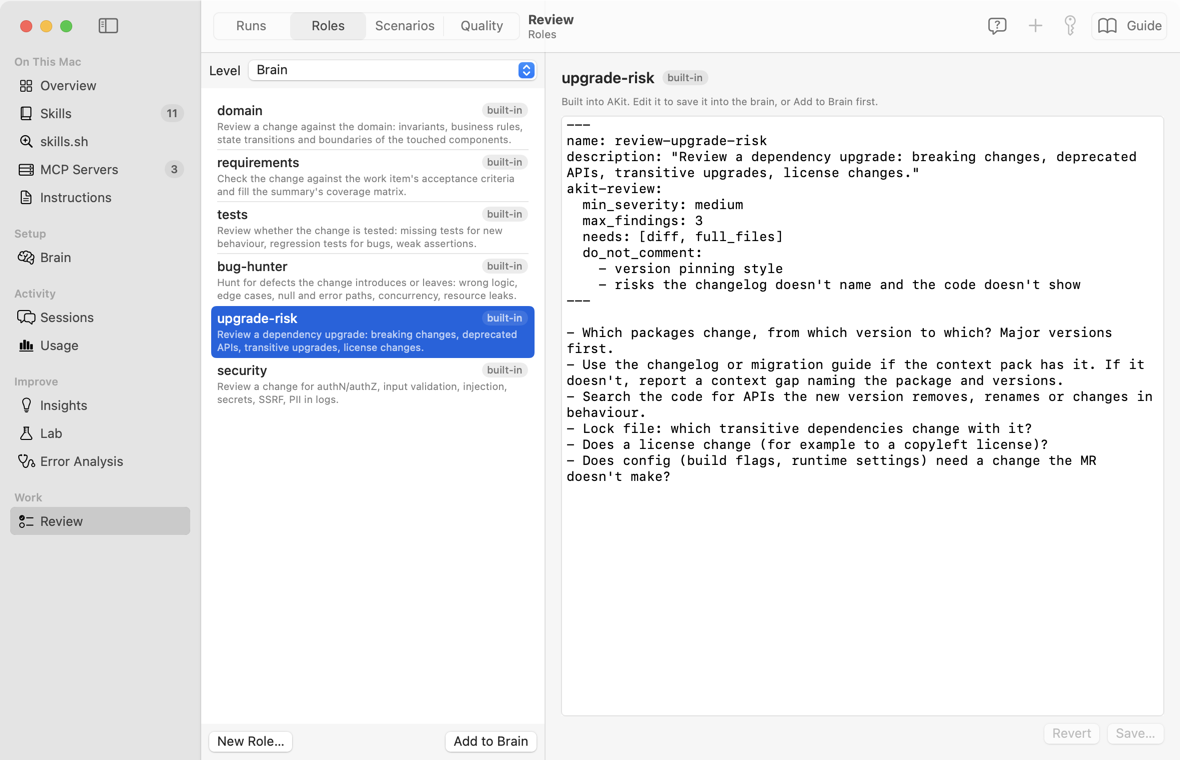
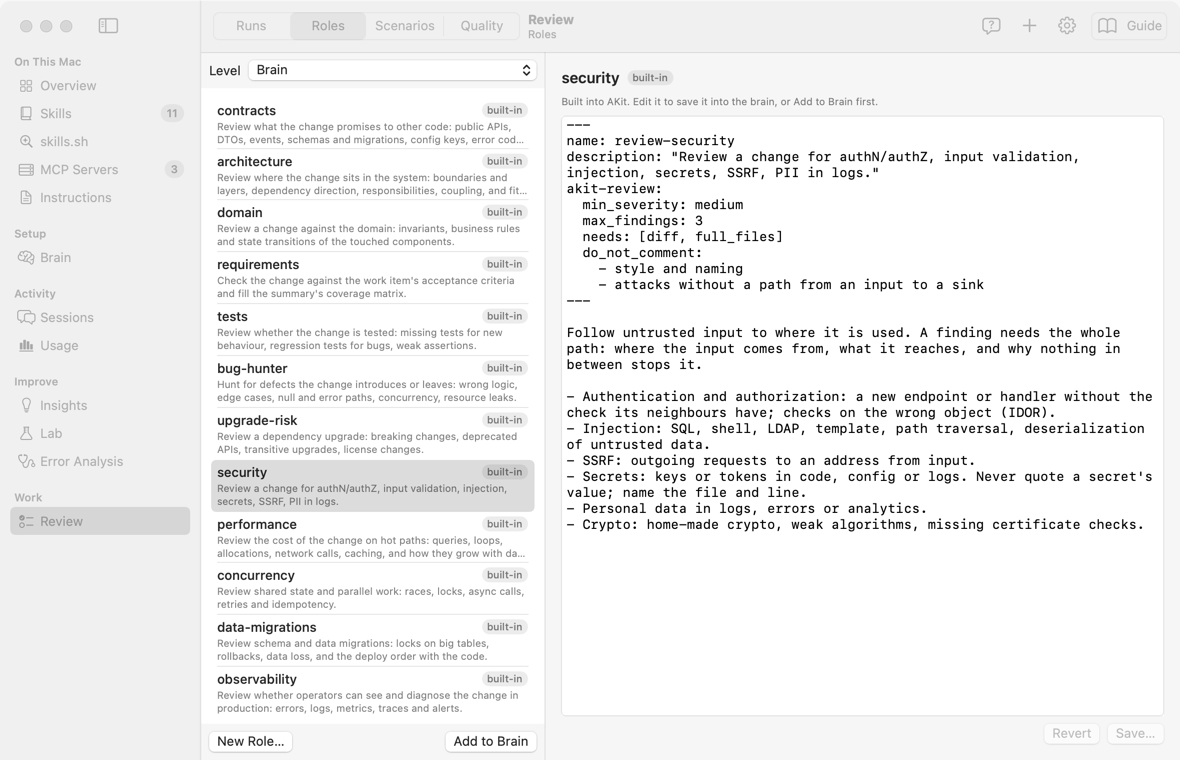
Add performance, concurrency, data-migrations and observability roles
Four optional built-in roles, each with its checklist and what not to
comment on. Feature makes architecture optional (a pass per role costs
credits; turn it on for a design question); Bugfix and Dependency upgrade
offer the new roles where they fit.

diff --git a/AKitCore/Sources/AKitReview/ReviewBuiltIns.swift b/AKitCore/Sources/AKitReview/ReviewBuiltIns.swift
@@ -26,7 +26,9 @@ public enum ReviewBuiltIns {
         "feature": """
         id: feature
         title: Feature
-        roles: { required: [contracts, architecture, domain, bug-hunter, requirements], optional: [tests, security] }
+        roles:
+          required: [contracts, domain, bug-hunter, requirements]
+          optional: [architecture, tests, security, performance, concurrency, data-migrations, observability]
         checks:
           - "Which contracts does the change add or change, and does every consumer still work?"
           - "Does the new code sit in the right component and keep its boundaries?"
@@ -41,7 +43,9 @@ public enum ReviewBuiltIns {
         "bugfix": """
         id: bugfix
         title: Bugfix
-        roles: { required: [bug-hunter, contracts, requirements, tests], optional: [architecture, security] }
+        roles:
+          required: [bug-hunter, contracts, requirements, tests]
+          optional: [architecture, security, concurrency, performance, observability]
         checks:
           - "Is the cause fixed, not the symptom (from the repro steps)?"
           - "Does the fix change a contract (behaviour, error, format) that other code relies on?"
@@ -55,7 +59,7 @@ public enum ReviewBuiltIns {
         "dependency-upgrade": """
         id: dependency-upgrade
         title: Dependency upgrade
-        roles: { required: [upgrade-risk, tests], optional: [contracts, security] }
+        roles: { required: [upgrade-risk, tests], optional: [contracts, security, performance] }
         checks:
           - "Which breaking changes does the new version list, and does the code handle them?"
           - "Which transitive dependencies change with it?"
@@ -171,10 +175,63 @@ public enum ReviewBuiltIns {
                          - Personal data in logs, errors or analytics.
                          - Crypto: home-made crypto, weak algorithms, missing certificate checks.
                          """),
+        "performance": role("performance", "Review the cost of the change on hot paths: queries, loops, allocations, network calls, caching, and how they grow with data.",
+                            max: 3, needs: ["diff", "full_files", "history"],
+                            doNotComment: ["micro-optimisations without a measured or obvious hot path", "style and naming",
+                                           "code that runs once at start-up or in tests"], body: """
+                            Find where the change makes something slower or heavier in a way users or operators will notice. For each finding name the path, how often it runs, and how its cost grows (with rows, items, users, payload size).
+
+                            - Database: a query inside a loop (N+1), a query without the index its filter or sort needs, a full-table read or count, a new query on every request that could be read once.
+                            - Network and I/O: a call per item instead of a batch, a synchronous call on a request path or the main thread, a missing timeout, a large payload read fully into memory.
+                            - Algorithms: a nested loop over two collections that grow, repeated sorting or parsing, a linear search in a hot loop.
+                            - Memory: unbounded caches, lists or buffers; loading a whole file, table or response when a stream would do.
+                            - Caching: a cache without an expiry or a bound, a cache key that misses on every call, invalidation that serves stale data.
+
+                            Evidence is the line that runs per item or per request. If you can't tell how often a path runs or how big the data is, ask with `kind: "question"`.
+                            """),
+        "concurrency": role("concurrency", "Review shared state and parallel work: races, locks, async calls, retries and idempotency.",
+                            max: 3, needs: ["diff", "full_files"],
+                            doNotComment: ["style and naming", "races without two concrete callers or tasks that can overlap"], body: """
+                            Find what goes wrong when two things happen at once. For each finding name the two actors (threads, tasks, requests, instances, consumers) and the order of steps that breaks.
+
+                            - Shared mutable state without a lock, an actor or a transaction; check-then-act and read-modify-write on a shared value or row.
+                            - Locks: taken in different orders (deadlock), held across a slow call or an `await`, never released on an error path.
+                            - Async: a call not awaited, a task that outlives its owner, cancellation that leaves state half-changed, work on the wrong thread or queue.
+                            - Distributed: two instances running the same job, a message handled twice, an event out of order. Is the handler idempotent?
+                            - Retries: a retry of a call that isn't idempotent (double charge, double send), retries without backoff or a limit.
+
+                            Quote the line where the shared state is read or written.
+                            """),
+        "data-migrations": role("data-migrations", "Review schema and data migrations: locks on big tables, rollbacks, data loss, and the deploy order with the code.",
+                                max: 3, needs: ["diff", "full_files", "history"],
+                                doNotComment: ["migration file naming and formatting", "changes with no migration, schema or stored data in them"], body: """
+                                Review every change to a schema or to stored data (SQL and ORM migrations, schema files, data backfills, changes to serialized formats in a store or a queue).
+
+                                - Locks and duration: an `ALTER` that rewrites or locks a big table, an index built without the online or concurrent option, a backfill in one transaction.
+                                - Data loss: a dropped or renamed column or table still read by running code, a type change that truncates, a `NOT NULL` without a default on existing rows.
+                                - Rollback: can the migration go back? Does the down step lose data? Is a one-way step marked as one?
+                                - Deploy order: old code running against the new schema, and new code against the old schema, during the rollout. A column the old code writes must stay until no old code runs.
+                                - Data meaning: a backfill that guesses values, defaults that change what old rows mean, time zones and units.
+
+                                Name the table and the step. If the size of a table matters and you can't know it, ask with `kind: "question"`.
+                                """),
+        "observability": role("observability", "Review whether operators can see and diagnose the change in production: errors, logs, metrics, traces and alerts.",
+                              max: 2, needs: ["diff", "full_files"],
+                              doNotComment: ["advice to add logging without a failure that would stay invisible", "log wording and levels as taste",
+                                             "secrets and personal data in logs (the security role owns them)"], body: """
+                              Ask: when this change fails in production, will anyone know, and can they tell why? A finding names the failure and what an operator would see (nothing, a wrong number, a log without the cause).
+
+                              - Errors swallowed or logged without the cause, the ID of the request or the entity, or the input that failed.
+                              - A new failure mode (a call to a new service, a queue, a job) with no metric, alert or health check where its neighbours have one.
+                              - Metrics or traces the change breaks: a renamed metric or label dashboards and alerts use, a span not closed, a label with unbounded values (user ids, URLs).
+                              - Log volume: a log line per item or per request on a hot path that will flood the logs.
+                              - A background job or retry loop that can fail forever without a signal.
+                              """),
     ]
 
     /// Ids in the order a new layer lists them.
-    public static let roleIDs = ["contracts", "architecture", "domain", "requirements", "tests", "bug-hunter", "upgrade-risk", "security"]
+    public static let roleIDs = ["contracts", "architecture", "domain", "requirements", "tests", "bug-hunter", "upgrade-risk", "security",
+                                 "performance", "concurrency", "data-migrations", "observability"]
     public static let scenarioIDs = ["feature", "bugfix", "dependency-upgrade"]
 
     public static var roles: [ReviewRole] {

diff --git a/AKitCore/Tests/AKitReviewTests/GatherTests.swift b/AKitCore/Tests/AKitReviewTests/GatherTests.swift
@@ -20,9 +20,19 @@ struct ConfigTests {
         #expect(security?.doNotComment.contains("attacks without a path from an input to a sink") == true)
         #expect(security?.maxFindings == 3 && security?.minSeverity == .medium)
         let bugfix = ReviewBuiltIns.scenarios.first { $0.id == "bugfix" }
-        #expect(bugfix?.required == ["bug-hunter", "contracts", "requirements", "tests"] && bugfix?.optional == ["architecture", "security"])
+        #expect(bugfix?.required == ["bug-hunter", "contracts", "requirements", "tests"])
+        #expect(bugfix?.optional == ["architecture", "security", "concurrency", "performance", "observability"])
         let feature = ReviewBuiltIns.scenarios.first { $0.id == "feature" }
-        #expect(feature?.required.prefix(2) == ["contracts", "architecture"], "contracts and architecture come first")
+        #expect(feature?.required == ["contracts", "domain", "bug-hunter", "requirements"], "contracts first; architecture is optional")
+        #expect(feature?.optional.first == "architecture")
+        // Every role a scenario names exists.
+        for scenario in ReviewBuiltIns.scenarios {
+            for id in scenario.required + scenario.optional { #expect(ReviewBuiltIns.roleIDs.contains(id), "\(scenario.id): \(id)") }
+        }
+        for id in ["performance", "concurrency", "data-migrations", "observability"] {
+            let role = ReviewBuiltIns.roles.first { $0.id == id }
+            #expect(role?.minSeverity == .medium && role?.doNotComment.isEmpty == false, "\(id)")
+        }
         for id in ["contracts", "architecture"] {
             let role = ReviewBuiltIns.roles.first { $0.id == id }
             #expect(role?.doNotComment.contains { $0.contains("formatting") } == true, "\(id)")

diff --git a/docs/guides/review.ru.md b/docs/guides/review.ru.md
@@ -305,11 +305,11 @@ default_scenario: bugfix
 
 Сценарий выбирает роли. Встроенных сценариев три:
 
-- **Feature** — роли `contracts`, `architecture`, `domain`, `bug-hunter`, `requirements`; по желанию `tests`, `security`. Проверяет контракты и их потребителей, границы компонентов, инварианты, бизнес-правила, поведение на краевых случаях и покрытие критериев кодом и тестами.
-- **Bugfix** — роли `bug-hunter`, `contracts`, `requirements`, `tests`; по желанию `architecture`, `security`. Проверяет, исправлена ли причина, не сломал ли фикс контракт, есть ли регрессионный тест, нет ли той же ошибки рядом.
-- **Dependency upgrade** — роли `upgrade-risk`, `tests`; по желанию `contracts`, `security`. Проверяет ломающие изменения, транзитивные зависимости, устаревшие API и лицензии.
+- **Feature** — роли `contracts`, `domain`, `bug-hunter`, `requirements`; по желанию `architecture`, `tests`, `security`, `performance`, `concurrency`, `data-migrations`, `observability`. Проверяет контракты и их потребителей, границы компонентов, инварианты, бизнес-правила, поведение на краевых случаях и покрытие критериев кодом и тестами.
+- **Bugfix** — роли `bug-hunter`, `contracts`, `requirements`, `tests`; по желанию `architecture`, `security`, `concurrency`, `performance`, `observability`. Проверяет, исправлена ли причина, не сломал ли фикс контракт, есть ли регрессионный тест, нет ли той же ошибки рядом.
+- **Dependency upgrade** — роли `upgrade-risk`, `tests`; по желанию `contracts`, `security`, `performance`. Проверяет ломающие изменения, транзитивные зависимости, устаревшие API и лицензии.
 
-Восемь встроенных ролей:
+Двенадцать встроенных ролей:
 
 - `contracts` — то, на что опирается другой код: публичные API, DTO, события, схемы и миграции, ключи конфигурации, коды ошибок. Роль ищет потребителей каждого изменённого контракта через `grep` и называет того, кто сломается.
 - `architecture` — границы и слои, направление зависимостей, ответственность, второй способ сделать то, что в коде уже есть, общее состояние, соответствие правилам проекта. Сомнение без доказанного вреда идёт вопросом автору.
@@ -319,6 +319,12 @@ default_scenario: bugfix
 - `bug-hunter` — ошибки логики, крайние случаи, null, ошибки, гонки, утечки ресурсов.
 - `upgrade-risk` — риски обновления зависимостей.
 - `security` — проверка доступа, проверка ввода, инъекции, секреты, SSRF, личные данные в логах.
+- `performance` — цена изменения на горячих путях: запрос в цикле (N+1), запрос без индекса, вызов на каждый элемент вместо пакета, кэш без предела. Находка называет путь, как часто он работает и как растёт с данными.
+- `concurrency` — общее состояние и параллельная работа: гонки, блокировки, `await`, повторы неидемпотентных вызовов, два экземпляра одной задачи. Находка называет двух участников и порядок шагов, который ломается.
+- `data-migrations` — миграции схемы и данных: блокировки больших таблиц, откат, потеря данных, порядок выкладки кода и схемы.
+- `observability` — увидит ли дежурный сбой этого изменения: ошибка без причины в логе, новый внешний вызов без метрики, переименованная метрика, которую читают дашборды, лог на каждый запрос.
+
+`architecture` в **Feature** теперь по желанию: включайте её, когда в изменении есть вопрос дизайна. Новые четыре роли тоже по желанию. Пример: MR добавляет миграцию — включите `data-migrations`; новый фоновый обработчик очереди — `concurrency` и `observability`.
 
 **Чего ревью не комментирует.** Сначала идут контракты, потом архитектура, потом поведение. Все проходы получают общий список запретов, и verifier отклоняет такие находки:
 
@@ -1280,7 +1286,7 @@ AKit проверяет папку ревью каждые несколько с
 2. **Level** = **Brain**.
 3. Выберите роль в списке. Справа откроется её `SKILL.md`.
 
-![Страница Roles: Level = Brain; список ролей domain, requirements, tests, bug-hunter, upgrade-risk, security, у каждой метка built-in и описание; выбрана security, справа её SKILL.md: name review-security, блок akit-review с min_severity medium, max_findings 3, needs и do_not_comment, ниже список проверок; кнопки New Role…, Add to Brain, Revert и Save…; подпись Built into AKit. Edit it to save it into the brain, or Add to Brain first.](images/review-roles.png)
+![Страница Roles: Level = Brain; список ролей contracts, architecture, domain, requirements, tests, bug-hunter, upgrade-risk, security, performance, concurrency, data-migrations, observability, у каждой метка built-in и описание; выбрана security, справа её SKILL.md: name review-security, блок akit-review с min_severity medium, max_findings 3, needs и do_not_comment, ниже список проверок; кнопки New Role…, Add to Brain, Revert и Save…; подпись Built into AKit. Edit it to save it into the brain, or Add to Brain first.](images/review-roles.png)
 
 Как читать роль:
 

diff --git a/docs/design/review.md b/docs/design/review.md
@@ -18,7 +18,9 @@ Feature scenario gets `bug-hunter` as a required role. Mermaid diagrams of a run
 
 Added 2026-10-22 (branch `review-audit-2`): checks without a model (the quote in the file, a
 person's open thread, inline only on changed lines, a secret scan, the size of the change; section
-"Checks without a model"), and Pi steps and Pi flags (section "Pi steps", below).
+"Checks without a model"); four optional roles, `performance`, `concurrency`, `data-migrations`
+and `observability`, with `architecture` optional in Feature (a role per pass costs credits; turn
+it on when the change has a design question); and Pi steps and Pi flags (section "Pi steps", below).
 A run can add the user's pi-subagents agents (`/run reviewer …`), prompt templates and skills
 as passes after the roles, and extra Pi flags for the passes; `akit review pi` and New Review…
 suggest what the user's Pi has. Checked on a real Pi 1.0.4: an extension command such as
@@ -482,9 +484,9 @@ detect:            # read by the classifier later; ignored in v1
 
 | Scenario | Roles (required / optional) | Checks | Context |
 |---|---|---|---|
-| Feature | contracts, architecture, domain, bug-hunter, requirements / tests, security | consumers of changed contracts, boundaries, invariants, business rules, edge cases and errors, AC covered by code and tests | WI with AC |
-| Bugfix | bug-hunter, contracts, requirements, tests / architecture, security | cause fixed, contract kept, regression test, nearby paths | repro steps, comments |
-| Dependency upgrade | upgrade-risk, tests / contracts, security | breaking changes, transitive upgrades, deprecated APIs, licenses | changelog or migration guide (often a gap) |
+| Feature | contracts, domain, bug-hunter, requirements / architecture, tests, security, performance, concurrency, data-migrations, observability | consumers of changed contracts, boundaries, invariants, business rules, edge cases and errors, AC covered by code and tests | WI with AC |
+| Bugfix | bug-hunter, contracts, requirements, tests / architecture, security, concurrency, performance, observability | cause fixed, contract kept, regression test, nearby paths | repro steps, comments |
+| Dependency upgrade | upgrade-risk, tests / contracts, security, performance | breaking changes, transitive upgrades, deprecated APIs, licenses | changelog or migration guide (often a gap) |
 
 ### Project profile (`~/.akit/local/review/projects/<slug>.yaml`)
 
